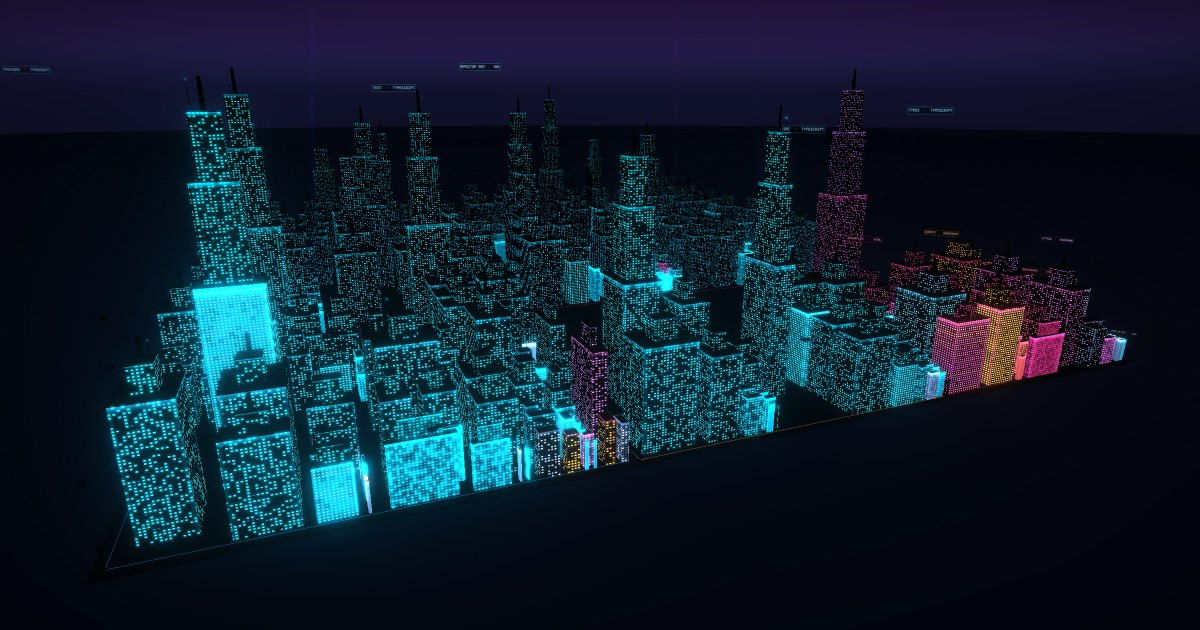
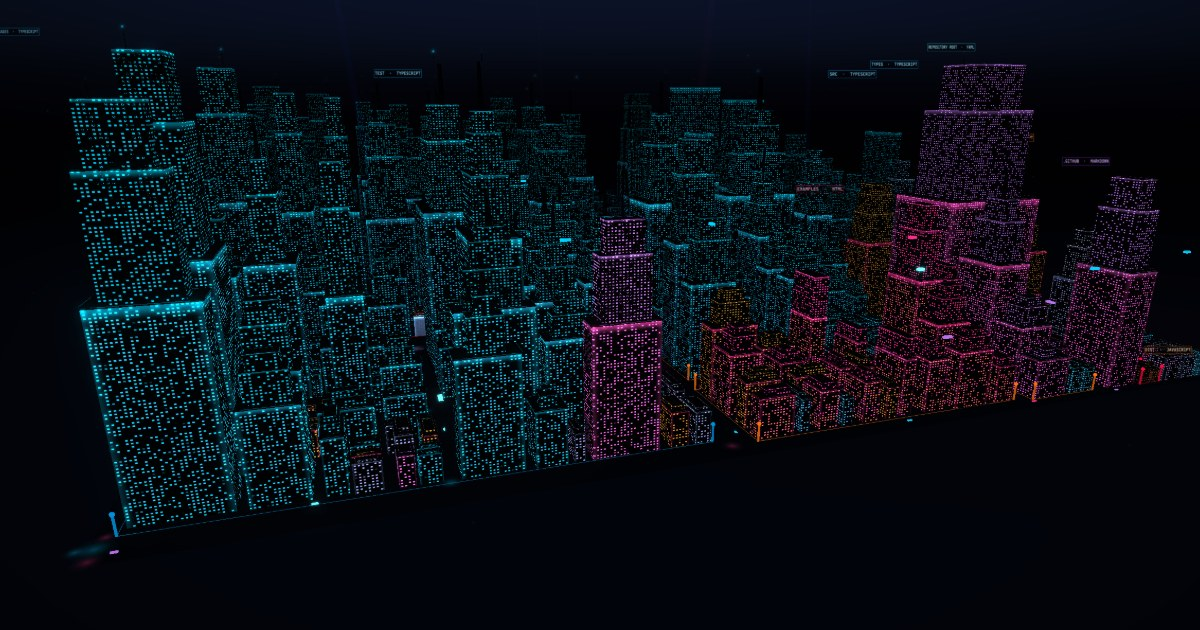
Regenerate the pictures the project shows the outside world
The og:image, the README hero and all three gallery shots were made by
hand and then never remade. Every one of them was still advertising a
city with building tops floating clear of their bodies, no interior
streets, and none of the district architecture -- a render of code that
no longer exists. A shared link is often the only view of this project
anybody gets, so that was the most visible thing in the repository.

`npm run capture:media` regenerates all five from pinned repositories at
the exact sizes index.html and the README already reference, so they are
drop-in and refreshing them after visual work is one command instead of
five careful screenshots. CONTRIBUTING now asks for it whenever a change
alters the city.

Two things the implementation had to work around, both found by getting
them wrong first:

The source is Playwright's screenshot, not the live canvas. The renderer
does not preserve its drawing buffer, so reading the WebGL canvas after
the frame is composited yields black -- capturePoster gets away with it
only because it re-renders immediately beforehand. The first attempt
produced a 5 KB black JPEG.

The crop never trims the top. `framing.screen` is the box the camera
solver FITTED, not the city's true extent; it is a high-percentile box,
so the tallest spires stand above it and cropping to it decapitated them.
Sky above the city is free, so only the empty apron below the plate and
the dead space either side are worth cutting. Cropping at all is what
[…]

diff --git a/src/main.ts b/src/main.ts
@@ -755,6 +755,22 @@ function exposeMeasurementHandle(): void {
       offset: [cityOffsetX, cityOffsetZ],
     });
   };
+
+  /*
+   * Where the city actually sits on screen, in CSS pixels.
+   *
+   * `capture-media.mjs` crops to this. The framing solver deliberately leaves
+   * a margin so the city never touches the viewport edge, which is right for
+   * the app and wrong for a social card — an og:image that is half empty black
+   * is the weakest possible version of the one picture most people ever see.
+   * Cropping is the contained fix; re-framing the app itself is a separate
+   * product decision.
+   */
+  (window as unknown as Record<string, unknown>).__repocityFraming = () => {
+    if (!cityCamera) return null;
+    const { left, top, width, height } = cityCamera.framing.screen;
+    return { left, top, width, height };
+  };
 }
 
 /**

diff --git a/docs/ROADMAP.md b/docs/ROADMAP.md
@@ -37,7 +37,9 @@ The `torvalds/linux` chip — in the app's own header — fails with "GitHub ret
 
 **9. Legend and language hygiene.** The three.js legend reads "Other 59%" at the top and also has a lowercase "other 7%" aggregate — two rows, same word, different meanings. Split assets into real categories (Models, Textures, Audio…), merge or rename the tail bucket, and fix the `detectLanguage` branch where `.npmrc`/`.bashrc`-style rc-files all return `json` (the `properties` branch is unreachable for them).
 
-**10. Poster and share surface.** `capturePoster` draws with webfonts but never awaits `document.fonts.ready` — cold-cache captures fall back to system fonts on the app's one shareable artifact. Fix, then use the poster pipeline to generate the og:image. The page declares `summary_large_image` with no image today, so every shared link renders a blank card — for a visual product, this is the highest-leverage missing asset.
+**10. ~~Poster and share surface.~~ Done, and the real problem turned out to be different.** Both halves of this item were already fixed: the og:image landed in `adc0f22`, and the poster font bug in `3ef89c9` — where `document.fonts.ready` proved insufficient on its own, because it settles pending loads but never *requests* a face the page has not used, and nothing on screen uses the italic-500 Fraunces the caption draws with.
+
+What was actually wrong is that every public image — the og:image, the README hero, the three gallery shots — was generated by hand and then never regenerated, so all of them advertised a city with floating building tops, no interior streets and none of the district architecture. Hand-made assets drift silently. `npm run capture:media` regenerates all five from pinned repositories at the sizes `index.html` and the README already reference, so refreshing them after visual work is one command.
 
 ## Phase 3 — The code (reviewer-proof)
 

diff --git a/README.md b/README.md
@@ -84,14 +84,15 @@ npm run ci          # the full release gate CI runs
 
 `npm run ci` reproduces the GitHub Actions gate: lint, unit tests, the Workerd runtime suite, both TypeScript targets, a production build, a high-severity dependency audit, and a Cloudflare deployment dry run. The Workerd suite validates real Worker bindings, request signals, streamed body limits, and Cache API behavior without production credentials or external network access.
 
-Two developer tools sit deliberately outside the gate, because they need a GPU and network access:
+Three developer tools sit deliberately outside the gate, because they need a GPU and network access:
 
 ```sh
 npm run capture <label>   # render the fixture repositories to artifacts/captures/<label>
 npm run measure           # report what the building shader is fed, per building
+npm run capture:media     # regenerate the og:image, README hero, and gallery
 ```
 
-Both require `npm run dev` and a local Chrome. Visual changes are verified by comparing two labelled capture runs of the same repositories at pinned commits — a synthetic fixture has given the wrong answer more than once.
+All three require `npm run dev` and a local Chrome. Visual changes are verified by comparing two labelled capture runs of the same repositories at pinned commits — a synthetic fixture has given the wrong answer more than once. `capture:media` exists because every image in this README is a picture of the renderer, and a hand-made screenshot silently stops being true the moment the renderer changes.
 
 ## Security
 

diff --git a/CONTRIBUTING.md b/CONTRIBUTING.md
@@ -45,6 +45,8 @@ npm run test:watch
 
 **Verify visual changes against real repositories.** A synthetic fixture has given the wrong answer twice, because the things that break — plot sizes, on-screen building widths, language mix — only take their real values on a real tree. `npm run capture <label>` renders a fixed set of repositories at pinned commits so two labelled runs can be compared side by side, and `npm run measure` reports what the building shader is actually being fed, per building, at the solved camera. Both need `npm run dev` and a local Chrome, and both are deliberately outside `npm run ci` — they want a GPU and the network.
 
+If your change alters what the city looks like, finish by running `npm run capture:media`. Every image in the README and the og:image is a picture of the renderer, so they stop being true the moment it changes — and because a shared link is often the only view of the project somebody gets, a stale one is the most visible thing in the repository.
+
 ## Where things live
 
 - `src/data` — GitHub ingestion, contract validation, repository modeling
